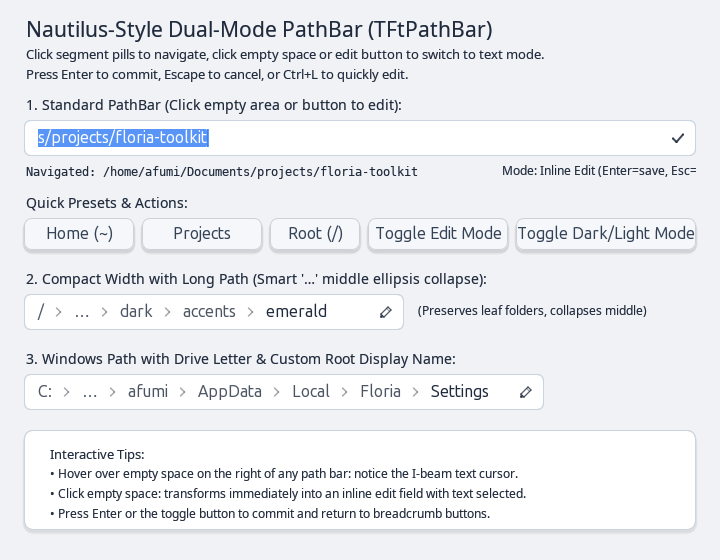
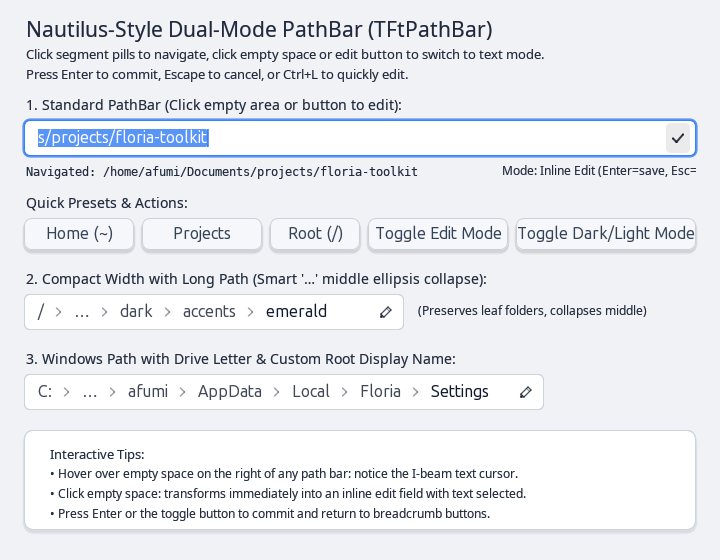
feat(theme): unify pathbar and urlentry with entry theme and enforce pill shape for urlentry

Changed region(s): [[0.0306, 0.2125, 0.9778, 0.3036]]

diff --git a/themes/classic.css b/themes/classic.css
@@ -27,7 +27,7 @@ button:active {
     color: #1a2028;
 }
 
-entry, textarea {
+entry, textarea, pathbar, urlentry {
     background-color: #ffffff;
     color: #262e38;
     border-color: #b0b6c2;
@@ -35,7 +35,11 @@ entry, textarea {
     border-radius: 4px;
 }
 
-entry:focus, textarea:focus {
+urlentry, urlentry.dark {
+    border-radius: 9999px;
+}
+
+entry:focus, textarea:focus, pathbar:focus, urlentry:focus {
     border-color: #38a082;
 }
 
@@ -113,13 +117,13 @@ button.dark:active {
     color: #e6eaf2;
 }
 
-entry.dark, textarea.dark {
+entry.dark, textarea.dark, pathbar.dark, urlentry.dark {
     background-color: #16181d;
     color: #e6eaf2;
     border-color: #3e4654;
 }
 
-entry.dark:focus, textarea.dark:focus {
+entry.dark:focus, textarea.dark:focus, pathbar.dark:focus, urlentry.dark:focus {
     border-color: #38a082;
 }
 

diff --git a/themes/gtk2.css b/themes/gtk2.css
@@ -27,7 +27,7 @@ button:active {
     color: #000000;
 }
 
-entry, textarea {
+entry, textarea, pathbar, urlentry {
     background-color: #ffffff;
     color: #1f1f1f;
     border-color: #858585;
@@ -35,7 +35,11 @@ entry, textarea {
     border-radius: 3px;
 }
 
-entry:focus, textarea:focus {
+urlentry, urlentry.dark {
+    border-radius: 9999px;
+}
+
+entry:focus, textarea:focus, pathbar:focus, urlentry:focus {
     border-color: #4a6e9b;
 }
 
@@ -112,13 +116,13 @@ button.dark:active {
     color: #ffffff;
 }
 
-entry.dark, textarea.dark {
+entry.dark, textarea.dark, pathbar.dark, urlentry.dark {
     background-color: #242424;
     color: #eaeaea;
     border-color: #404040;
 }
 
-entry.dark:focus, textarea.dark:focus {
+entry.dark:focus, textarea.dark:focus, pathbar.dark:focus, urlentry.dark:focus {
     border-color: #4a6e9b;
 }
 

diff --git a/themes/default.css b/themes/default.css
@@ -128,7 +128,7 @@ button:disabled {
     opacity: 0.6;
 }
 
-entry, textarea {
+entry, textarea, pathbar, urlentry {
     background-color: var(--surface-bg);
     color: var(--text-dark);
     border-color: var(--border-color);
@@ -138,7 +138,11 @@ entry, textarea {
     transition: border-color 150ms ease;
 }
 
-entry:focus, textarea:focus {
+urlentry, urlentry.dark {
+    border-radius: 9999px;
+}
+
+entry:focus, textarea:focus, pathbar:focus, urlentry:focus {
     border-color: var(--accent-focus);
 }
 

diff --git a/themes/dracula.css b/themes/dracula.css
@@ -27,7 +27,7 @@ button:active {
     color: #50fa7b;
 }
 
-entry, textarea {
+entry, textarea, pathbar, urlentry {
     background-color: #21222c;
     color: #f8f8f2;
     border-color: #6272a4;
@@ -36,7 +36,11 @@ entry, textarea {
     transition: border-color 150ms ease;
 }
 
-entry:focus, textarea:focus {
+urlentry, urlentry.dark {
+    border-radius: 9999px;
+}
+
+entry:focus, textarea:focus, pathbar:focus, urlentry:focus {
     border-color: #bd93f9;
 }
 

diff --git a/themes/gruvbox.css b/themes/gruvbox.css
@@ -27,7 +27,7 @@ button:active {
     color: #fabd2f;
 }
 
-entry, textarea {
+entry, textarea, pathbar, urlentry {
     background-color: #3c3836;
     color: #ebdbb2;
     border-color: #504945;
@@ -36,7 +36,11 @@ entry, textarea {
     transition: border-color 150ms ease;
 }
 
-entry:focus, textarea:focus {
+urlentry, urlentry.dark {
+    border-radius: 9999px;
+}
+
+entry:focus, textarea:focus, pathbar:focus, urlentry:focus {
     border-color: #fabd2f;
 }
 

diff --git a/themes/nord.css b/themes/nord.css
@@ -27,7 +27,7 @@ button:active {
     color: #eceff4;
 }
 
-entry, textarea {
+entry, textarea, pathbar, urlentry {
     background-color: #3b4252;
     color: #eceff4;
     border-color: #4c566a;
@@ -36,7 +36,11 @@ entry, textarea {
     transition: border-color 150ms ease;
 }
 
-entry:focus, textarea:focus {
+urlentry, urlentry.dark {
+    border-radius: 9999px;
+}
+
+entry:focus, textarea:focus, pathbar:focus, urlentry:focus {
     border-color: #88c0d0;
 }
 
